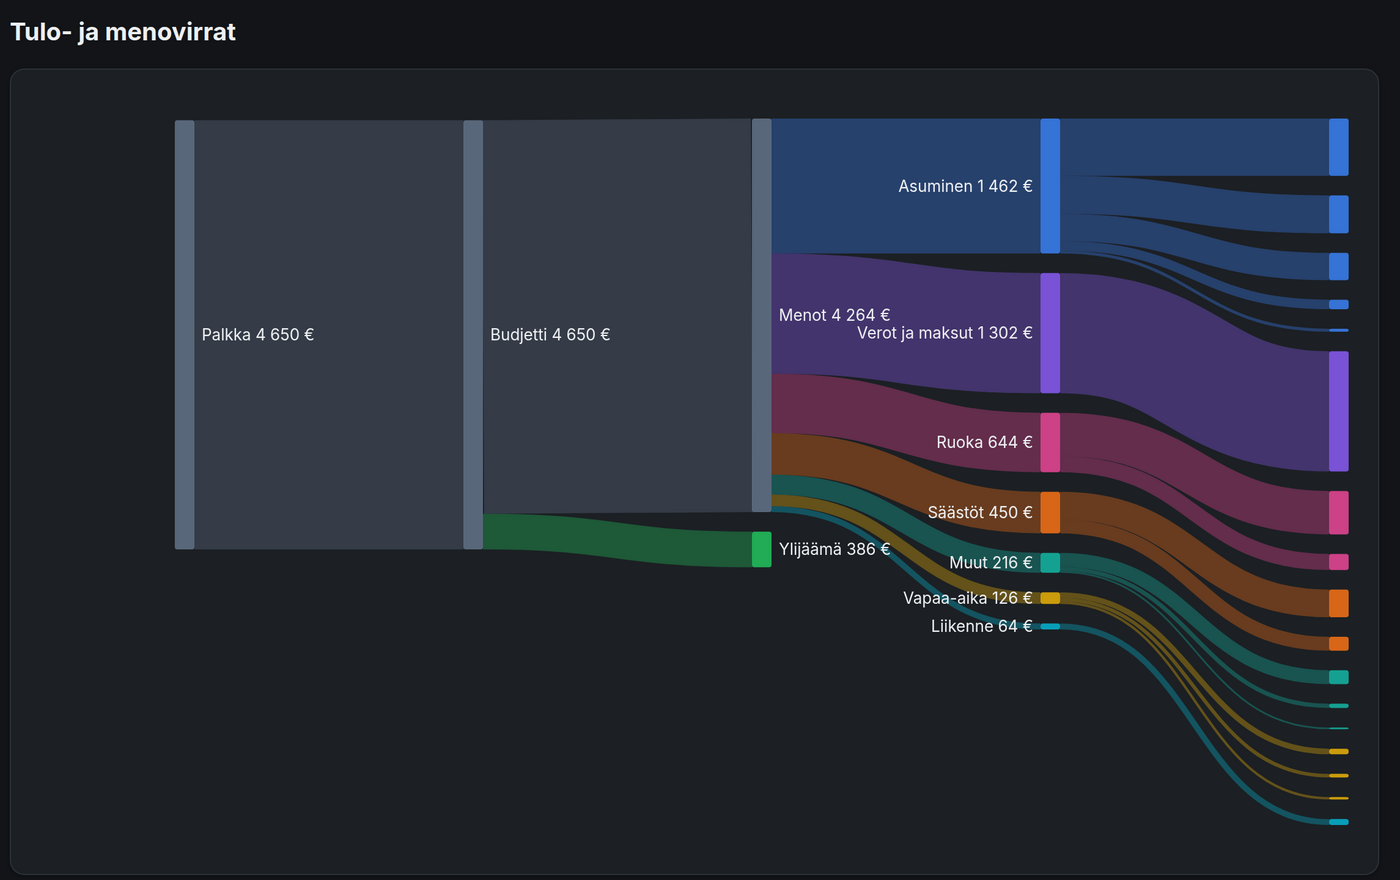
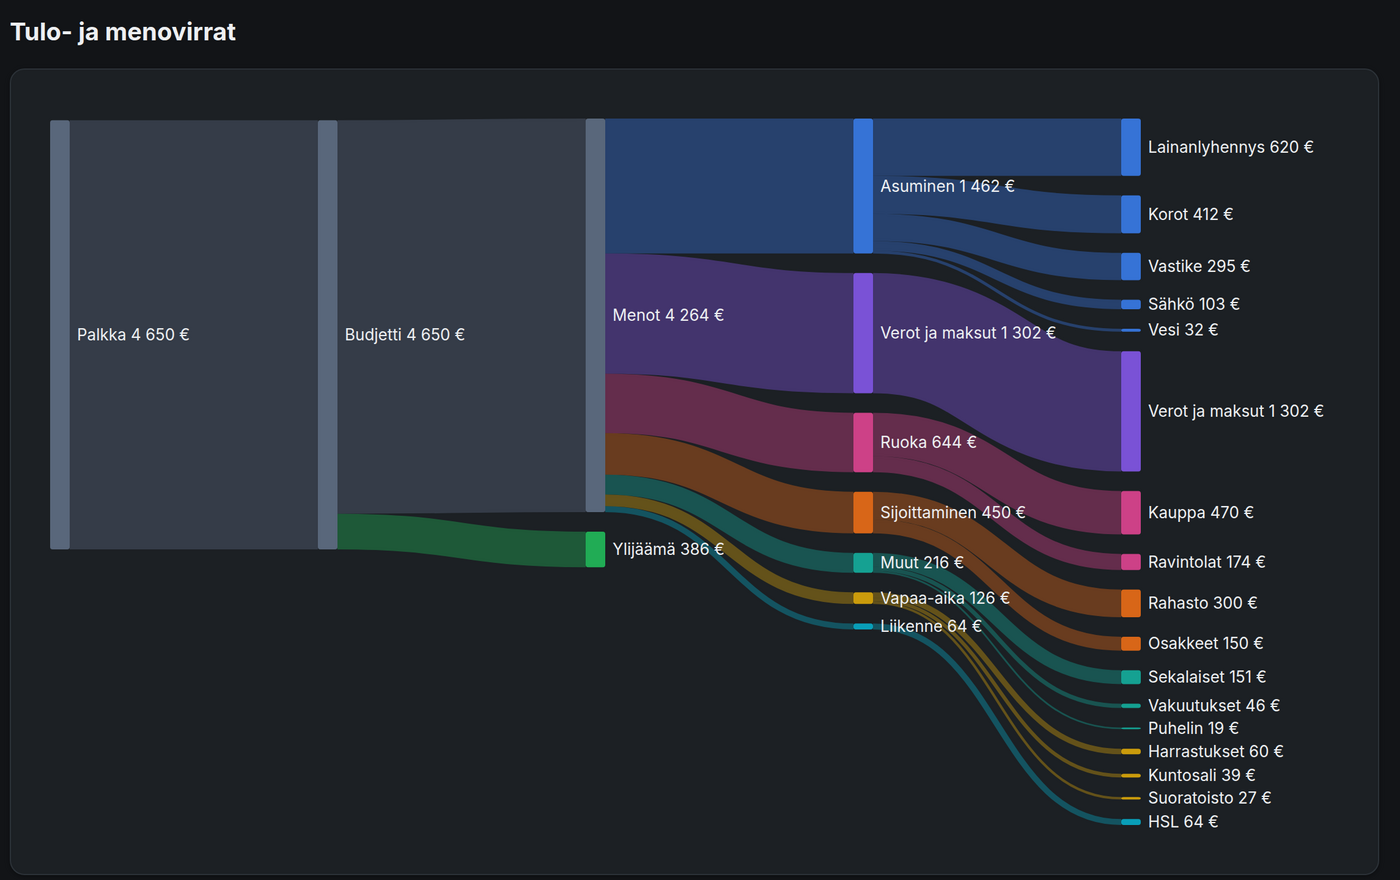
Show every Sankey label: fit the diagram to its card, label to the right
The diagram was wider than its card at desktop widths, so the last column
and its labels sat in a horizontal scroll nobody noticed. The column hops
now shrink to fit the card, down to MIN_COL_HOP, below which it still
scrolls. Columns right of centre labelled to their left, colliding with
the labels of the column before; now every label sits to the right of its
node, so each gap holds one column's labels only.

Claude-Session: https://claude.ai/code/session_01JtcT5EtyULKrRpUfzx8KFE

diff --git a/packages/client/src/components/visualizations/SankeyDiagram.tsx b/packages/client/src/components/visualizations/SankeyDiagram.tsx
@@ -1,4 +1,4 @@
-import { useState } from 'react';
+import { useLayoutEffect, useState } from 'react';
 import { createPortal } from 'react-dom';
 import { sankeyLinkHorizontal } from 'd3-sankey';
 import { buildSankeyGraph } from '../../lib/sankey-builder';
@@ -40,6 +40,16 @@ export function SankeyDiagram({ incomes, expenses, categories }: Props) {
     label: string;
     value: number;
   } | null>(null);
+  // A state ref, not useRef: the container only mounts once there is data to draw.
+  const [container, setContainer] = useState<HTMLDivElement | null>(null);
+  const [containerWidth, setContainerWidth] = useState<number>();
+
+  useLayoutEffect(() => {
+    if (!container) return;
+    const observer = new ResizeObserver(([entry]) => setContainerWidth(entry.contentRect.width));
+    observer.observe(container);
+    return () => observer.disconnect();
+  }, [container]);
 
   const graph = buildSankeyGraph(incomes, expenses, categories);
 
@@ -47,10 +57,10 @@ export function SankeyDiagram({ incomes, expenses, categories }: Props) {
     return <p className="text-base text-ink-muted">{t.sankeyNoData}</p>;
   }
 
-  const { nodes, links, width, height } = layoutSankey(graph);
+  const { nodes, links, width, height } = layoutSankey(graph, containerWidth);
 
   return (
-    <div className="relative w-full overflow-x-auto">
+    <div ref={setContainer} className="relative w-full overflow-x-auto">
       <svg
         width={width}
         height={height}
@@ -89,8 +99,8 @@ export function SankeyDiagram({ incomes, expenses, categories }: Props) {
           const n = node as PositionedNode;
           const h = Math.max(1, n.y1 - n.y0);
           const isDashed = n.type === 'deficit' || n.type === 'unspecified-income';
-          // Leaf expenses always label to their right (outward); other nodes flip by side.
-          const labelOnLeft = n.type === 'expense' ? false : n.x0 > width / 2;
+          // Every label sits right of its node, so a gap between two columns only ever holds
+          // the labels of the column on its left, and they cannot collide.
           const cy = (n.y0 + n.y1) / 2;
 
           return (
@@ -115,10 +125,9 @@ export function SankeyDiagram({ incomes, expenses, categories }: Props) {
               />
               {/* Every node is labelled — NODE_PADDING guarantees room even for slivers. */}
               <text
-                x={labelOnLeft ? n.x0 - 6 : n.x1 + 6}
+                x={n.x1 + 6}
                 y={cy}
                 dy="0.35em"
-                textAnchor={labelOnLeft ? 'end' : 'start'}
                 fontSize={LABEL_FONT_PX}
                 className="select-none [fill:var(--ink)]"
               >

diff --git a/packages/client/src/lib/sankey-layout.ts b/packages/client/src/lib/sankey-layout.ts
@@ -6,6 +6,8 @@ export const MIN_HEIGHT = 320;
 export const SLOT_PX = 34;
 // Horizontal room per column hop — the primary lever for ribbon steepness/clipping.
 export const COL_HOP = 240;
+// The shortest hop used to fit a narrow container; below it the diagram scrolls instead.
+export const MIN_COL_HOP = 150;
 
 const NODE_WIDTH = 16;
 // Guaranteed (never-compressed) gap between stacked nodes. Kept >= a label line so
@@ -13,8 +15,8 @@ const NODE_WIDTH = 16;
 const NODE_PADDING = 16;
 const PAD_TOP = 16;
 const PAD_BOTTOM = 16;
-// Horizontal room reserved for left (source) and right (terminal/leaf) labels.
-const PAD_LEFT = 110;
+// Every label sits right of its node, so only the right edge needs room for labels.
+const PAD_LEFT = 8;
 const PAD_RIGHT = 170;
 
 export interface PositionedNode extends SankeyNode {
@@ -46,10 +48,11 @@ export interface SankeyLayout {
  * - `nodeSort` by the builder's DFS rank → every subtree is one contiguous band, no crossings.
  * - `sankeyLeft` → each node sits at its natural tree depth (ragged right edge), so expense
  *   ribbons are short, single-column hops instead of long cross-column sweeps.
- * Width grows with tree depth (real horizontal pixels → gentler ribbons); height is sized to
- * the densest column so expenses spread across columns without cramming.
+ * Width grows with tree depth (real horizontal pixels → gentler ribbons), shortening the hops
+ * to fit `maxWidth` when given; height is sized to the densest column so expenses spread
+ * across columns without cramming.
  */
-export function layoutSankey(graph: SankeyGraph): SankeyLayout {
+export function layoutSankey(graph: SankeyGraph, maxWidth = Infinity): SankeyLayout {
   // Column geometry is driven by the builder's `depth` (matches sankeyLeft's columns).
   let maxDepth = 0;
   const perColumn = new Map<number, number>();
@@ -59,7 +62,11 @@ export function layoutSankey(graph: SankeyGraph): SankeyLayout {
   }
   const maxColumnNodeCount = Math.max(1, ...perColumn.values());
 
-  const width = PAD_LEFT + PAD_RIGHT + Math.max(3, maxDepth) * COL_HOP;
+  const hops = Math.max(3, maxDepth);
+  const fittedHop = Math.floor((maxWidth - PAD_LEFT - PAD_RIGHT - NODE_WIDTH) / hops);
+  const colHop = Math.max(MIN_COL_HOP, Math.min(COL_HOP, fittedHop));
+  // d3-sankey spaces columns over the extent minus one node width, so add it back.
+  const width = PAD_LEFT + PAD_RIGHT + NODE_WIDTH + hops * colHop;
   const height = Math.max(MIN_HEIGHT, maxColumnNodeCount * SLOT_PX + PAD_TOP + PAD_BOTTOM);
 
   const layout = d3Sankey<SankeyNode, { value: number; color: string }>()

diff --git a/packages/client/src/lib/sankey-layout.test.ts b/packages/client/src/lib/sankey-layout.test.ts
@@ -1,6 +1,6 @@
 import { describe, test, expect } from 'bun:test';
 import { buildSankeyGraph } from './sankey-builder';
-import { layoutSankey, MIN_HEIGHT, SLOT_PX } from './sankey-layout';
+import { layoutSankey, MIN_COL_HOP, MIN_HEIGHT, SLOT_PX } from './sankey-layout';
 
 const salary = { id: 1, name: 'Salary', amount: 300000 };
 const bonus = { id: 2, name: 'Bonus', amount: 200000 };
@@ -109,6 +109,23 @@ describe('layoutSankey', () => {
       )
     ); // max depth 4 (budget→Housing→Utilities→Bill)
     expect(deep.width).toBeGreaterThan(flat.width);
+  });
+
+  test('fits a narrower container by shortening column hops, so the last labels stay visible', () => {
+    const roomy = layoutSankey(normalGraph());
+    const fitted = layoutSankey(normalGraph(), roomy.width - 200);
+    expect(fitted.width).toBe(roomy.width - 200);
+    const rightmost = Math.max(...fitted.nodes.map((n) => n.x1));
+    expect(rightmost).toBeLessThan(fitted.width - 150); // room left for the last column's labels
+  });
+
+  test('never grows past its natural width, and stops shrinking at MIN_COL_HOP', () => {
+    const roomy = layoutSankey(normalGraph());
+    expect(layoutSankey(normalGraph(), roomy.width + 500).width).toBe(roomy.width);
+
+    const tiny = layoutSankey(normalGraph(), 100);
+    const columns = [...new Set(tiny.nodes.map((n) => Math.round(n.x0)))].sort((a, b) => a - b);
+    expect(columns[1] - columns[0]).toBeGreaterThanOrEqual(MIN_COL_HOP - 1);
   });
 
   test('Budget sits left of Expenses, which sits left of categories and their expenses', () => {
